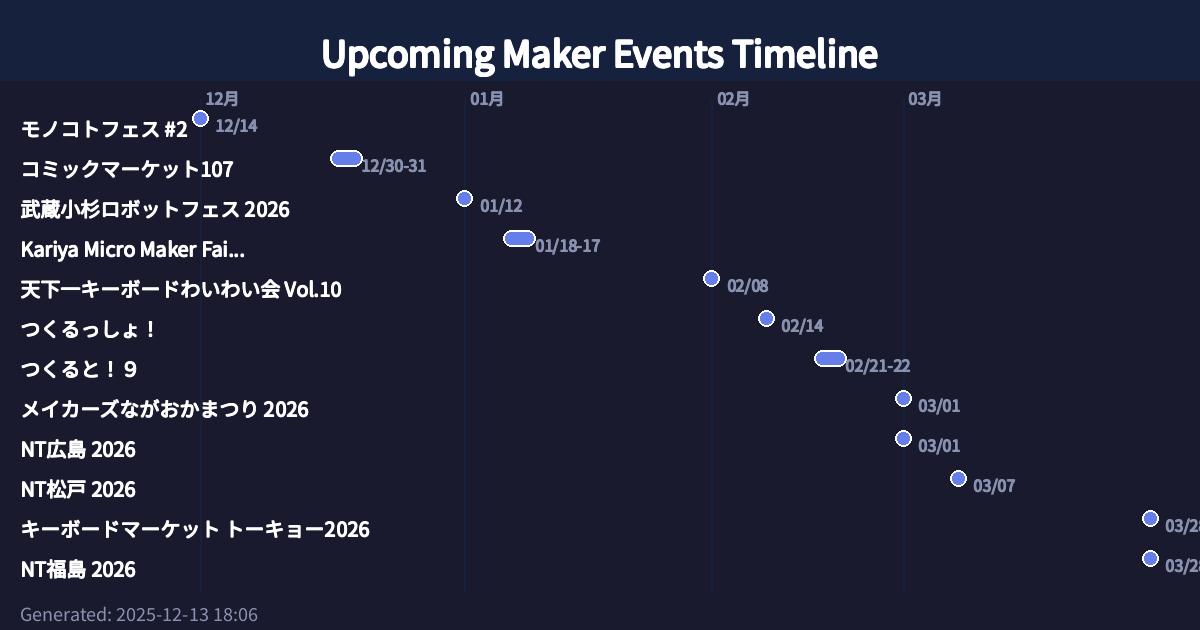
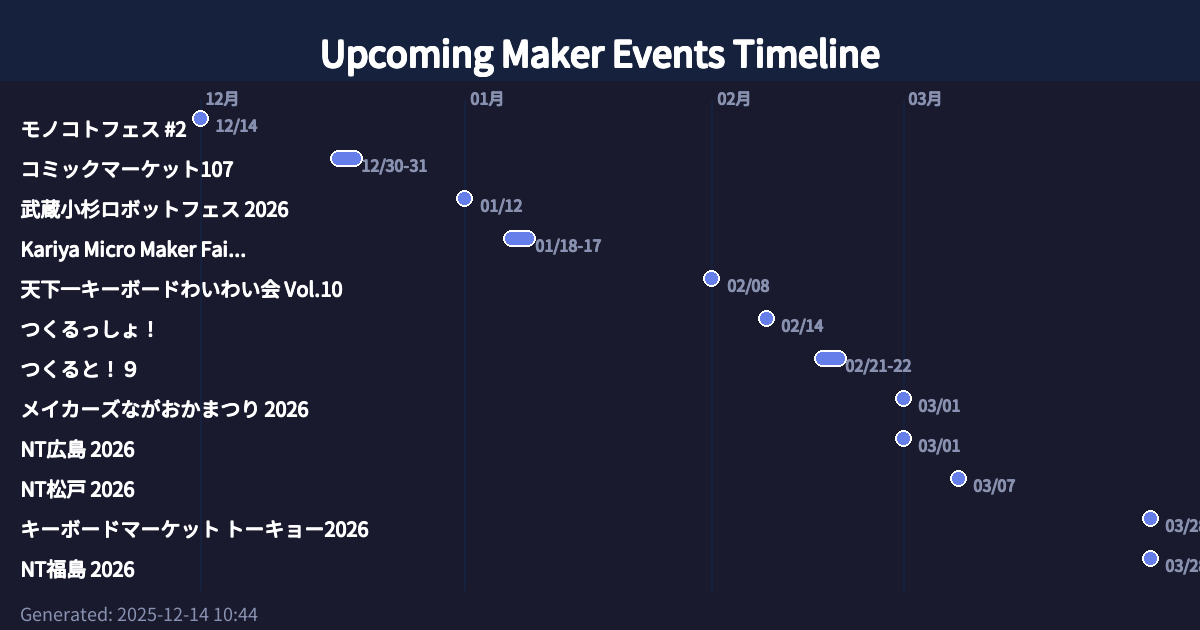
パリ/フランスの地域判定を修正
- 国判定ロジックにパリ/フランスのキーワードを追加
- 'paris', 'パリ', 'france', 'フランス' をキーワードリストに追加
- Maker Faire Paris が正しく海外イベントとして分類されるよう改善
- マレーシア対応と同じアプローチで実装

🤖 Generated with [Claude Code](https://claude.com/claude-code)

diff --git a/index.html b/index.html
@@ -452,25 +452,6 @@
                 <div class="event-card">
                     <div class="event-image">
                         
-                            🛠
-                        
-                    </div>
-                    <div class="event-content">
-                        
-                        <div class="event-date">2026年04月10日〜12日</div>
-                        
-                        <h3 class="event-title">Maker Faire Paris</h3>
-                        <p class="event-location">Musée des Arts et Métiers, パリ(フランス), 日本</p>
-                        
-                        
-                        <a href="https://paris.makerfaire.com/" class="event-link" target="_blank">詳細を見る</a>
-                        
-                    </div>
-                </div>
-                
-                <div class="event-card">
-                    <div class="event-image">
-                        
                             <img src="https://media.connpass.com/thumbs/fa/d7/fad73490153df98b552063f9dcabb784.png" alt="第十三回 技術書同人誌博覧会" style="width: 100%; height: 100%; object-fit: cover;">
                         
                     </div>
@@ -540,6 +521,25 @@
                     </div>
                     <div class="event-content">
                         
+                        <div class="event-date">April 10-12, 2026</div>
+                        
+                        <h3 class="event-title">Maker Faire Paris</h3>
+                        <p class="event-location">Musée des Arts et Métiers, パリ(フランス), France</p>
+                        
+                        
+                        <a href="https://paris.makerfaire.com/" class="event-link" target="_blank">Learn More</a>
+                        
+                    </div>
+                </div>
+                
+                <div class="event-card">
+                    <div class="event-image">
+                        
+                            🛠
+                        
+                    </div>
+                    <div class="event-content">
+                        
                         <div class="event-date">September 25-27, 2026</div>
                         
                         <h3 class="event-title">Maker Faire Bay Area 2026</h3>
@@ -564,7 +564,7 @@
     </div>
     
     <footer style="text-align: center; margin-top: 1rem; padding: 1rem; color: #666; font-size: 0.8rem; border-top: 1px solid #e0e0e0;">
-        <p>Last updated: 2025-12-14 03:06 JST</p>
+        <p>Last updated: 2025-12-14 10:44 JST</p>
     </footer>
 </body>
 </html>

diff --git a/generate_events.py b/generate_events.py
@@ -654,7 +654,7 @@ def parse_events(raw_events: List[Dict]) -> List[Event]:
             
             # 国を判定（海外の都市名が含まれている場合は適切に分類）
             country = '日本'
-            if any(keyword in full_location.lower() for keyword in ['san francisco', 'サンフランシスコ', 'bacolod', 'フィリピン', 'seoul', 'ソウル', '韓国', 'rome', 'ローマ', 'shanghai', '上海', '中国', 'shenzhen', '深圳', 'taipei', '台北', '台湾', 'kuala lumpur', 'クアラルンプール', 'malaysia', 'マレーシア']):
+            if any(keyword in full_location.lower() for keyword in ['san francisco', 'サンフランシスコ', 'bacolod', 'フィリピン', 'seoul', 'ソウル', '韓国', 'rome', 'ローマ', 'shanghai', '上海', '中国', 'shenzhen', '深圳', 'taipei', '台北', '台湾', 'kuala lumpur', 'クアラルンプール', 'malaysia', 'マレーシア', 'paris', 'パリ', 'france', 'フランス']):
                 if 'san francisco' in full_location.lower() or 'サンフランシスコ' in full_location:
                     country = 'USA'
                 elif 'bacolod' in full_location.lower() or 'フィリピン' in full_location:
@@ -671,6 +671,8 @@ def parse_events(raw_events: List[Dict]) -> List[Event]:
                     country = 'Taiwan'
                 elif 'kuala lumpur' in full_location.lower() or 'クアラルンプール' in full_location or 'malaysia' in full_location.lower() or 'マレーシア' in full_location:
                     country = 'Malaysia'
+                elif 'paris' in full_location.lower() or 'パリ' in full_location or 'france' in full_location.lower() or 'フランス' in full_location:
+                    country = 'France'
             
             # 画像URLは後で今後のイベントのみに対して取得する
             image_url = ""
